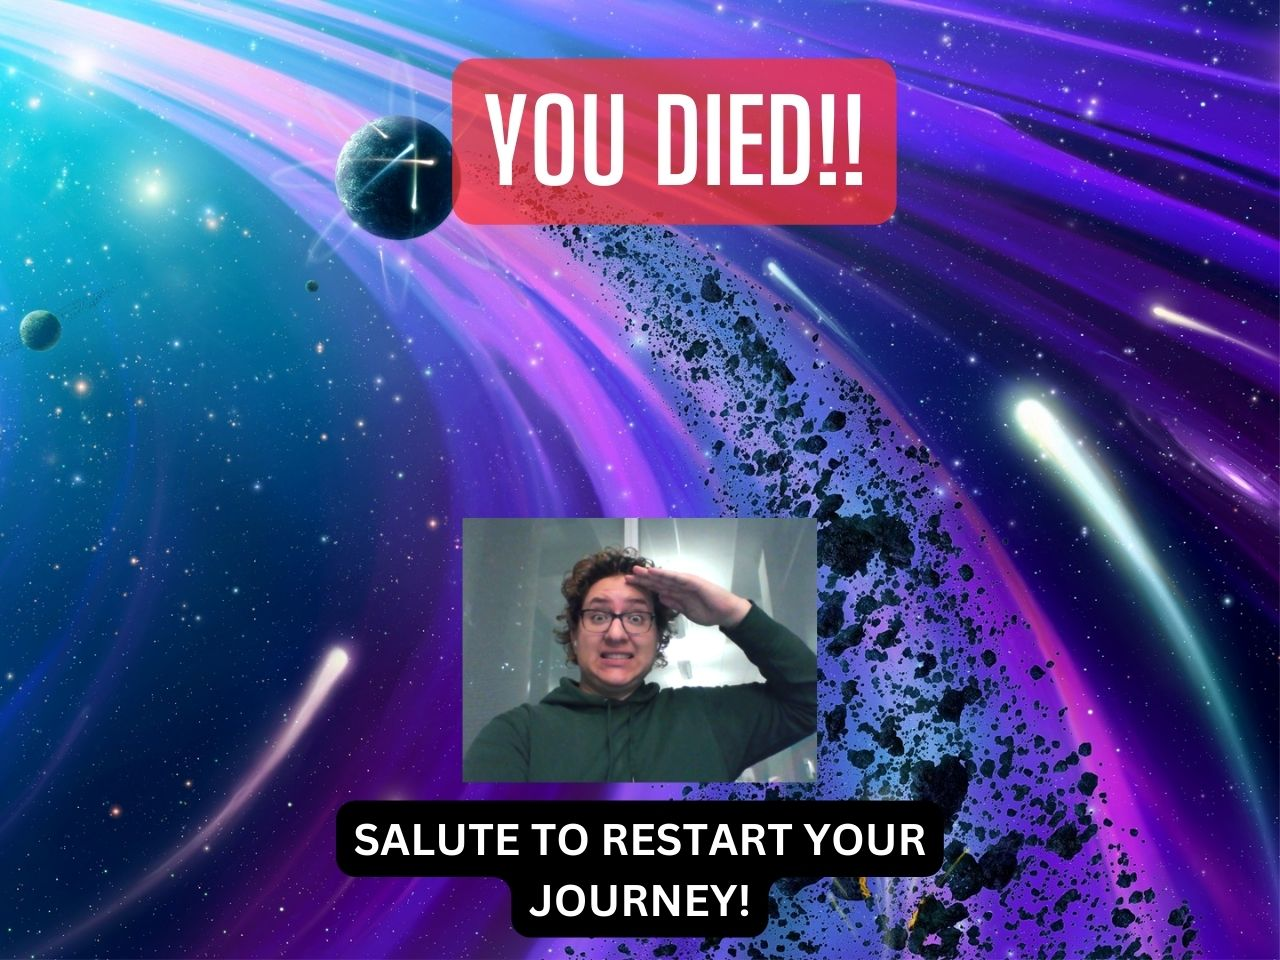
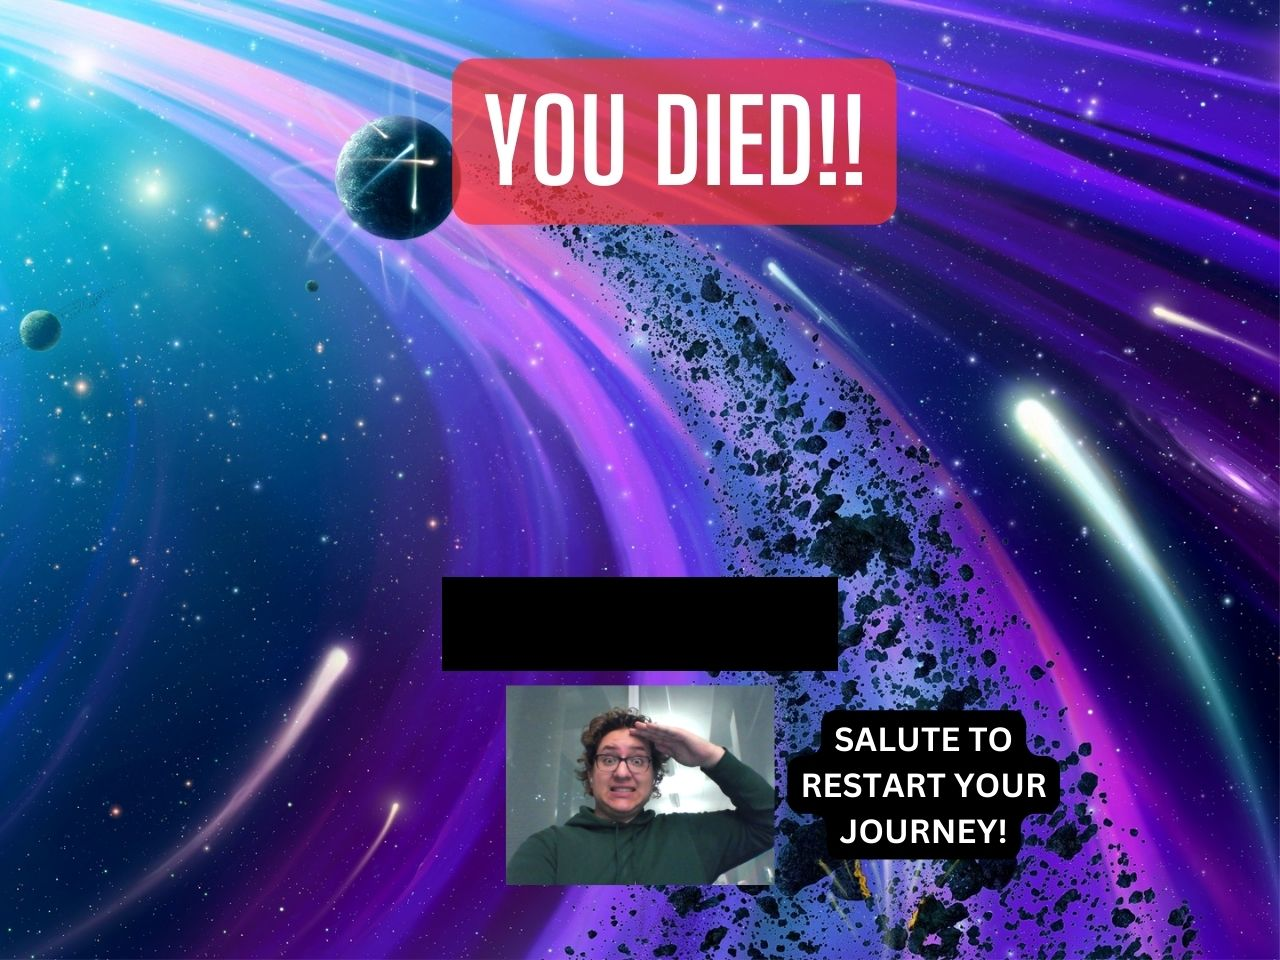
added end screen
okayyyyyyyyyyyyyyyyy this might the the last commit for the night. pretty happy with how it ended up. there are a couple bugs but i just cant seem to squash:

meteorspawning is not consistent

explosionGIF is not consistent

also i added a loading screen for posenet to take its time. :)

Changed region(s): [[0.25, 0.5312, 0.8438, 1.0]]

diff --git a/projects/Wint24/final/shipGame/js/script.js b/projects/Wint24/final/shipGame/js/script.js
@@ -66,6 +66,7 @@ let brain;
 let state = "waiting";
 let targetLabel;
 let poseLabel = "E";
+let poseNetCheck = false; //this is so that the game does not start unless the posenet is loaded properly.
 
 //--SHIP GAME THINGS--
 let scene = "title"; // Initial scene is set to "title"
@@ -76,7 +77,7 @@ let timerInterval;
 let initialSpeed;
 let initialFrequency;
 let bg;
-let intro;  //intro bg
+let intro; //intro bg
 let end; //end screen
 let lastShipX; //to save ships last spot when explodes to put explosion image
 let lastShipY;
@@ -194,8 +195,8 @@ function setup() {
   frameRate(60); //for preformance
   meteor = new Meteor(); // Create the initial meteor object
   bg = loadImage("assets/images/bgs/space.jpg");
-  intro = loadImage("assets/images/bgs/intro.jpg")
-  end = loadImage("assets/images/bgs/end.jpg")
+  intro = loadImage("assets/images/bgs/intro.jpg");
+  end = loadImage("assets/images/bgs/end.jpg");
   initialSpeed = 1.5; // Reset the initial speed
   initialFrequency = 0; // Reset the initial frequency
   ship = new Ship(); // Create the ship object
@@ -226,160 +227,169 @@ function setup() {
 }
 
 function draw() {
-  if (scene === "title") {
-    // Title screen
+  if (poseNetCheck == true) {
+    if (scene === "title") {
+      // Title screen
 
-    background(intro); // Set the background color to dark blue (RGB values).
+      background(intro); // Set the background color to dark blue (RGB values).
 
-    push(); //to prevent the letters showing from being flipped unlike the webcam
-    translate(video.width, 0); //this and line below simply flips the video
-    scale(-0.5, 0.5);
-    image(video, 0, windowHeight/2, video.width, video.height);
+      push(); //to prevent the letters showing from being flipped unlike the webcam
+      translate(video.width, 0); //this and line below simply flips the video
+      scale(-0.5, 0.5);
+      image(video, 0, windowHeight / 2, video.width, video.height);
 
-    //skelly(); //debug
+      //skelly(); //debug
 
-    pop(); //end inversion
+      pop(); //end inversion
 
-    // fill(255); // Set the fill color to white
-    // textAlign(CENTER, CENTER);
-    // textSize(60);
-    // text("Space!", width / 2, height / 4); //title, make it better
-    // textSize(29);
-    // text("salute with right arm to start.", width / 2, (3 * height) / 4);
-    // textSize(20);
-    // text(
-    //   "in a t pose, tilt arms left and right to steer ship. ADD IMGAGES!!!!! AHHHHHHHH",
-    //   width / 2,
-    //   (3.5 * height) / 4
-    // );
+      // fill(255); // Set the fill color to white
+      // textAlign(CENTER, CENTER);
+      // textSize(60);
+      // text("Space!", width / 2, height / 4); //title, make it better
+      // textSize(29);
+      // text("salute with right arm to start.", width / 2, (3 * height) / 4);
+      // textSize(20);
+      // text(
+      //   "in a t pose, tilt arms left and right to steer ship. ADD IMGAGES!!!!! AHHHHHHHH",
+      //   width / 2,
+      //   (3.5 * height) / 4
+      // );
 
-    // textSize(18);
-    // text("please read code for explanation!!", width / 2, (3.8 * height) / 4);
+      // textSize(18);
+      // text("please read code for explanation!!", width / 2, (3.8 * height) / 4);
 
-    // textSize(8);
-    // text("drspaniel.com", width / 8, (7 * height) / 8); //shameless plug
-    // textSize(20);
-    // text("avoid the meteors!!!", width / 2, (2.5 * height) / 4);
+      // textSize(8);
+      // text("drspaniel.com", width / 8, (7 * height) / 8); //shameless plug
+      // textSize(20);
+      // text("avoid the meteors!!!", width / 2, (2.5 * height) / 4);
 
-    //letterDisp(); //debug
+      //letterDisp(); //debug
 
-    if (keyIsDown(DOWN_ARROW) || poseLabel === "A") {
-      //A is the salute option
-      // If the mouse is clicked, transition to the simulation scene
-      start.play();
-      scene = "simulation";
-      startTimer(); //doesnt work, trying to make timer start here
-      startMeteorSpawnInterval(); // Start spawning meteors
-    }
-  } else if (scene === "simulation") {
-    //now that i think of it, maybe the webcam can be in a tiny corner. add to TODO (welp....... that time is now lol)
-    background(bg);
-
-    push(); //to prevent the letters showing from being flipped unlike the webcam
-    translate(video.width, 0); //this and line below simply flips the video
-    scale(-0.3, 0.3);
-    image(video, 0, 0, video.width, video.height);
-    //skelly(); //debug
-    pop(); //end inversion
-
-    // fill(255, 0, 255);
-    // noStroke();
-    // textSize(256);
-    // textAlign(width/4, height/4);
-    // text(poseLabel, width / 2, height / 2); //shows letter depending on body shape
-
-    mouseX = ship.x; //pretty much the meteors rely on mousex and mousey to track location of the ship this is a duct tape solution but honestly it works really fucking well LOLLLLL
-    mouseY = ship.y; //lmao... if it works it works eh?
-
-    //main game
-    // print(timer);poseLabel
-    //background(bg); // Set the background color to dark blue (RGB values).
-
-    textSize(30);
-    fill(255);
-    textAlign(LEFT, TOP);
-    text("Time: " + timer, width/6, 30); //align text to top right
-
-    for (let i = meteors.length - 1; i >= 0; i--) {
-      //for every meteor in the array
-      const meteor = meteors[i]; // Get the current meteor object from the array.
-
-      image(meteor.img, meteor.x - 32, meteor.y - 32); // Display the meteor's image at its current position with an offset to center it.
-
-      meteor.calculateDirection(); // Calculate the direction of the meteor's movement based on the mouse position.
-
-      meteor.move(); // Update the meteor's position based on its velocity.
-
-      if (
-        //meteor touching border
-        meteor.y > height ||
-        meteor.y < 0 ||
-        meteor.x > width ||
-        meteor.x < 0
-      ) {
-        meteors.splice(i, 1); // Remove meteors that go off-screen from the array.
+      if (keyIsDown(DOWN_ARROW) || poseLabel === "A") {
+        //A is the salute option
+        // If the mouse is clicked, transition to the simulation scene
+        start.play();
+        scene = "simulation";
+        startTimer(); //doesnt work, trying to make timer start here
+        startMeteorSpawnInterval(); // Start spawning meteors
       }
-      if (dist(meteor.x, meteor.y, mouseX, mouseY) < 55) {
-        //when ship touches any meteor
-        //55 to account of radius of both meteor and ship. probably janky. i could probably make it when both images overlap but argh
-        // If the mouse touches a meteor, transition to the "end" scene
-        lastShipX = ship.x;
-        lastShipY = ship.y;
-        explosion.play();
-        scene = "end";
+    } else if (scene === "simulation") {
+      //now that i think of it, maybe the webcam can be in a tiny corner. add to TODO (welp....... that time is now lol)
+      background(bg);
 
-        clearInterval(meteorSpawnInterval); // Stop spawning meteors
+      push(); //to prevent the letters showing from being flipped unlike the webcam
+      translate(video.width, 0); //this and line below simply flips the video
+      scale(-0.3, 0.3);
+      image(video, 0, 0, video.width, video.height);
+      //skelly(); //debug
+      pop(); //end inversion
 
-        stopTimer();
+      // fill(255, 0, 255);
+      // noStroke();
+      // textSize(256);
+      // textAlign(width/4, height/4);
+      // text(poseLabel, width / 2, height / 2); //shows letter depending on body shape
+
+      mouseX = ship.x; //pretty much the meteors rely on mousex and mousey to track location of the ship this is a duct tape solution but honestly it works really fucking well LOLLLLL
+      mouseY = ship.y; //lmao... if it works it works eh?
+
+      //main game
+      // print(timer);poseLabel
+      //background(bg); // Set the background color to dark blue (RGB values).
+
+      textSize(30);
+      fill(255);
+      textAlign(LEFT, TOP);
+      text("Time: " + timer, width / 6, 30); //align text to top right
+
+      for (let i = meteors.length - 1; i >= 0; i--) {
+        //for every meteor in the array
+        const meteor = meteors[i]; // Get the current meteor object from the array.
+
+        image(meteor.img, meteor.x - 32, meteor.y - 32); // Display the meteor's image at its current position with an offset to center it.
+
+        meteor.calculateDirection(); // Calculate the direction of the meteor's movement based on the mouse position.
+
+        meteor.move(); // Update the meteor's position based on its velocity.
+
+        if (
+          //meteor touching border
+          meteor.y > height ||
+          meteor.y < 0 ||
+          meteor.x > width ||
+          meteor.x < 0
+        ) {
+          meteors.splice(i, 1); // Remove meteors that go off-screen from the array.
+        }
+        if (dist(meteor.x, meteor.y, mouseX, mouseY) < 55) {
+          //when ship touches any meteor
+          //55 to account of radius of both meteor and ship. probably janky. i could probably make it when both images overlap but argh
+          // If the mouse touches a meteor, transition to the "end" scene
+          lastShipX = ship.x;
+          lastShipY = ship.y;
+          explosion.play();
+          scene = "end";
+
+          clearInterval(meteorSpawnInterval); // Stop spawning meteors
+
+          stopTimer();
+        }
       }
+
+      ship.move(); // Move the ship based on key input
+      ship.display(); // Display the ship
+
+      //letterDisp(); //debug
+    } else if (scene === "end") {
+      background(end); // Set the background color to dark blue (RGB values).
+
+      push(); //to prevent the letters showing from being flipped unlike the webcam
+      translate(video.width, 0); //this and line below simply flips the video
+      scale(-0.5, 0.5);
+      image(video, 0, windowHeight / 2, video.width, video.height);
+      //skelly(); //debug
+      pop(); //end inversion
+
+      // fill(255); // Set the fill color to white
+      // textAlign(CENTER, CENTER);
+      // textSize(48);
+      // text("You Died!", width / 2, height / 2);
+
+      textSize(24);
+      text("Time survived: " + timer + "s", width / 2.5, (2.5 * height) / 4); // Display the elapsed time
+
+      // textSize(24);
+      // text("salute again to restart.", width / 2, (2.5 * height) / 4); // Restart button
+
+      if (kaboomCounter == 0) {
+        image(kaboom, lastShipX - 100, lastShipY - 150);
+
+        setTimeout(function () {
+          kaboomCounter++; //trigger this only after 2.5 seconds have passed
+        }, 1600);
+      }
+
+      // if (keyIsDown(DOWN_ARROW) || poseLabel === "A") {    //this doesnt work..... need to find another way to hold the salute for 3s before changing scenes.
+      // setTimeout(function () {
+      if (keyIsDown(DOWN_ARROW) || poseLabel === "A") {
+        // If the mouse is clicked, transition to the simulation scene and restart the simulation
+        start.play();
+        scene = "simulation";
+        startMeteorSpawnInterval(); // Start spawning meteors
+        meteors = [];
+        startTimer();
+        kaboomCounter = 0;
+      }
+      // }, 3000);
+      //}
     }
-
-    ship.move(); // Move the ship based on key input
-    ship.display(); // Display the ship
-
-    //letterDisp(); //debug
-  } else if (scene === "end") {
-    background(end); // Set the background color to dark blue (RGB values).
-
-    push(); //to prevent the letters showing from being flipped unlike the webcam
-    translate(video.width, 0); //this and line below simply flips the video
-    scale(-0.3, 0.3);
-    image(video, 0, 0, video.width, video.height);
-    //skelly(); //debug
-    pop(); //end inversion
-
-    fill(255); // Set the fill color to white
-    textAlign(CENTER, CENTER);
-    textSize(48);
-    text("You Died!", width / 2, height / 2);
-
-    textSize(24);
-    text("Time survived: " + timer + "s", width / 2, (3 * height) / 4); // Display the elapsed time
-
-    textSize(24);
-    text("salute again to restart.", width / 2, (2.5 * height) / 4); // Restart button
-
-    if (kaboomCounter == 0) {
-      image(kaboom, lastShipX - 100, lastShipY - 150);
-
-      setTimeout(function () {
-        kaboomCounter++; //trigger this only after 2.5 seconds have passed
-      }, 1600);
-    }
-
-    // if (keyIsDown(DOWN_ARROW) || poseLabel === "A") {    //this doesnt work..... need to find another way to hold the salute for 3s before changing scenes.
-    // setTimeout(function () {
-    if (keyIsDown(DOWN_ARROW) || poseLabel === "A") {
-      // If the mouse is clicked, transition to the simulation scene and restart the simulation
-      start.play();
-      scene = "simulation";
-      startMeteorSpawnInterval(); // Start spawning meteors
-      meteors = [];
-      startTimer();
-      kaboomCounter = 0;
-    }
-    // }, 3000);
-    //}
+  } else {
+    background(0);
+    fill(255, 255, 255);
+    noStroke();
+    textSize(90);
+    textAlign(width / 4, height / 4);
+    text("loading....", width / 2, height / 2); 
   }
 }
 
@@ -424,6 +434,7 @@ function classifyPose() {
 function modelLoaded() {
   //handles pose model, to detect posed
   console.log("poseNet ready!");
+  poseNetCheck = true;
 }
 
 function gotPoses(poses) {
